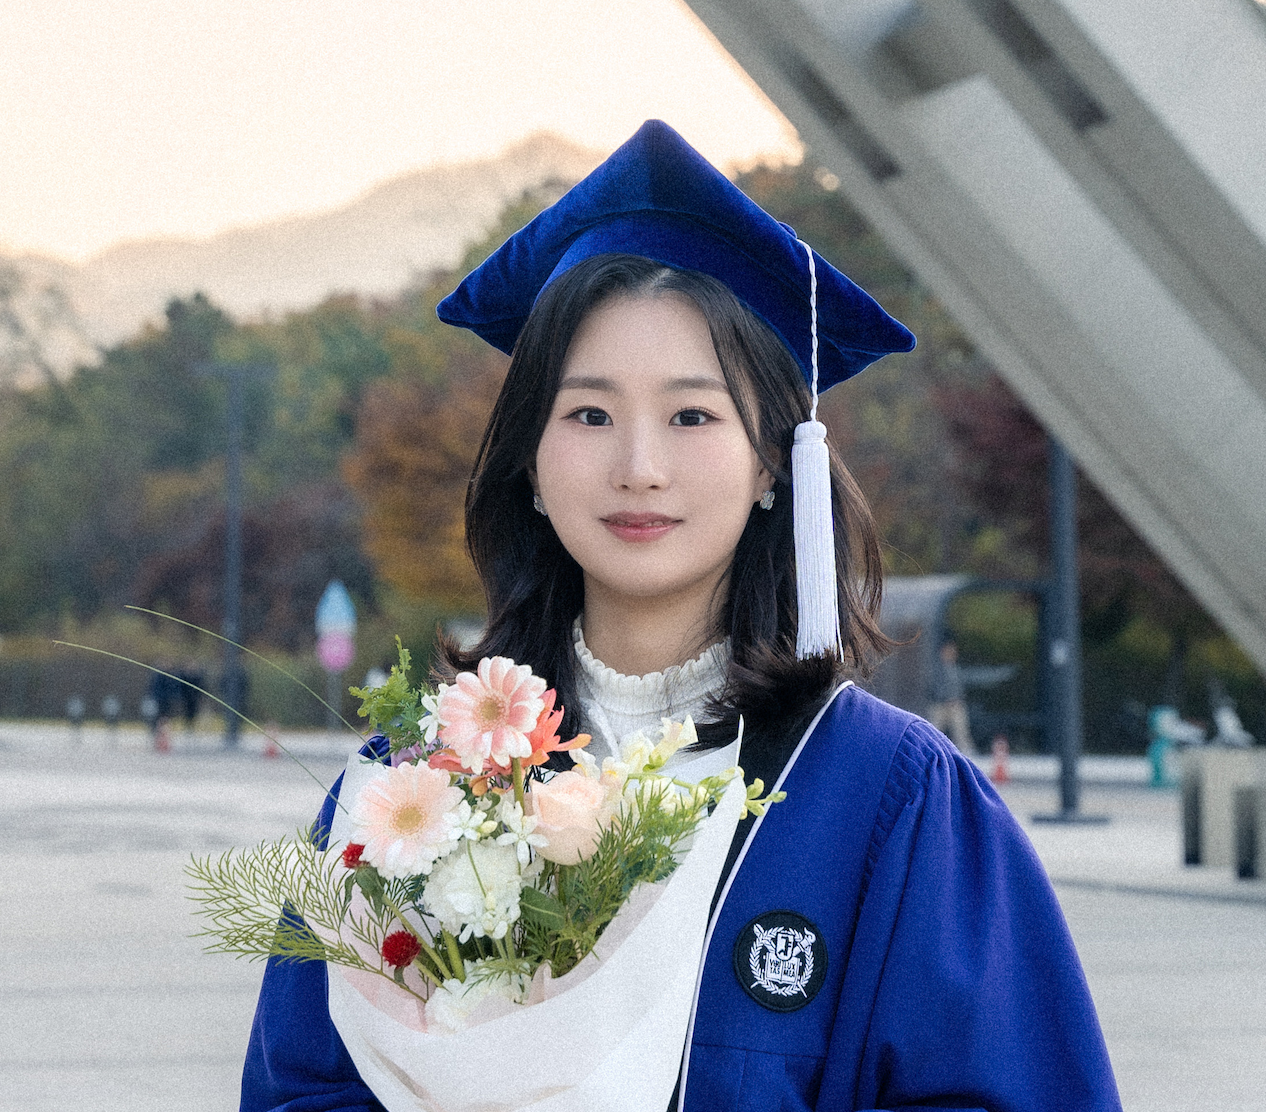
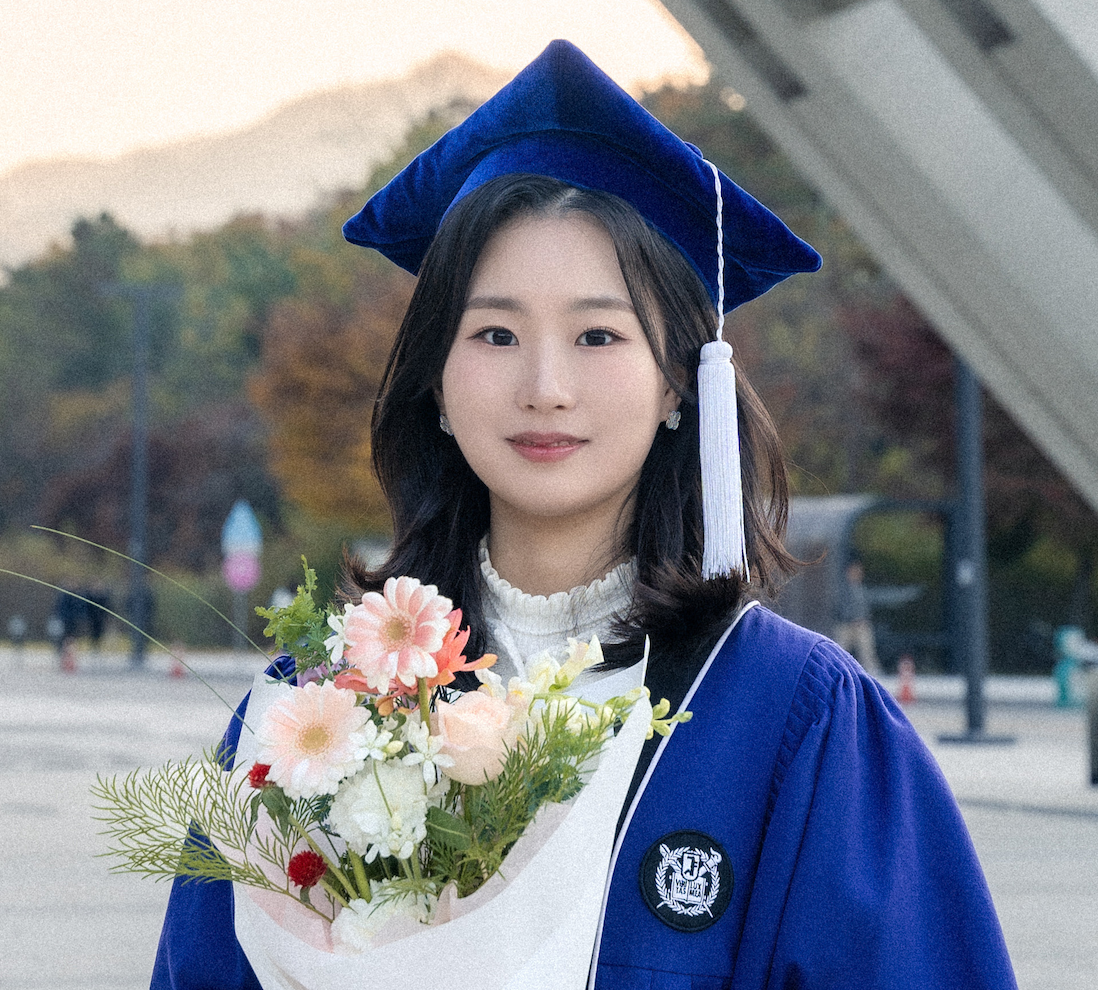
Fix: image

diff --git a/index.html b/index.html
@@ -34,7 +34,7 @@
                 </p>
               </td>
               <td style="padding:2.5%;width:40%;max-width:40%">
-                <a href="jcy_images/CheyonJin.png"><img style="width:100%;max-width:100%;object-fit: cover; border-radius: 50%;" alt="profile photo" src="jcy_images/CheyonJin.jpeg" class="hoverZoomLink"></a>
+                <a href="jcy_images/CheyonJin.png"><img style="width:100%;max-width:100%;object-fit: cover; border-radius: 50%;" alt="profile photo" src="jcy_images/CheyonJin.png" class="hoverZoomLink"></a>
               </td>
             </tr>
           </tbody></table>
